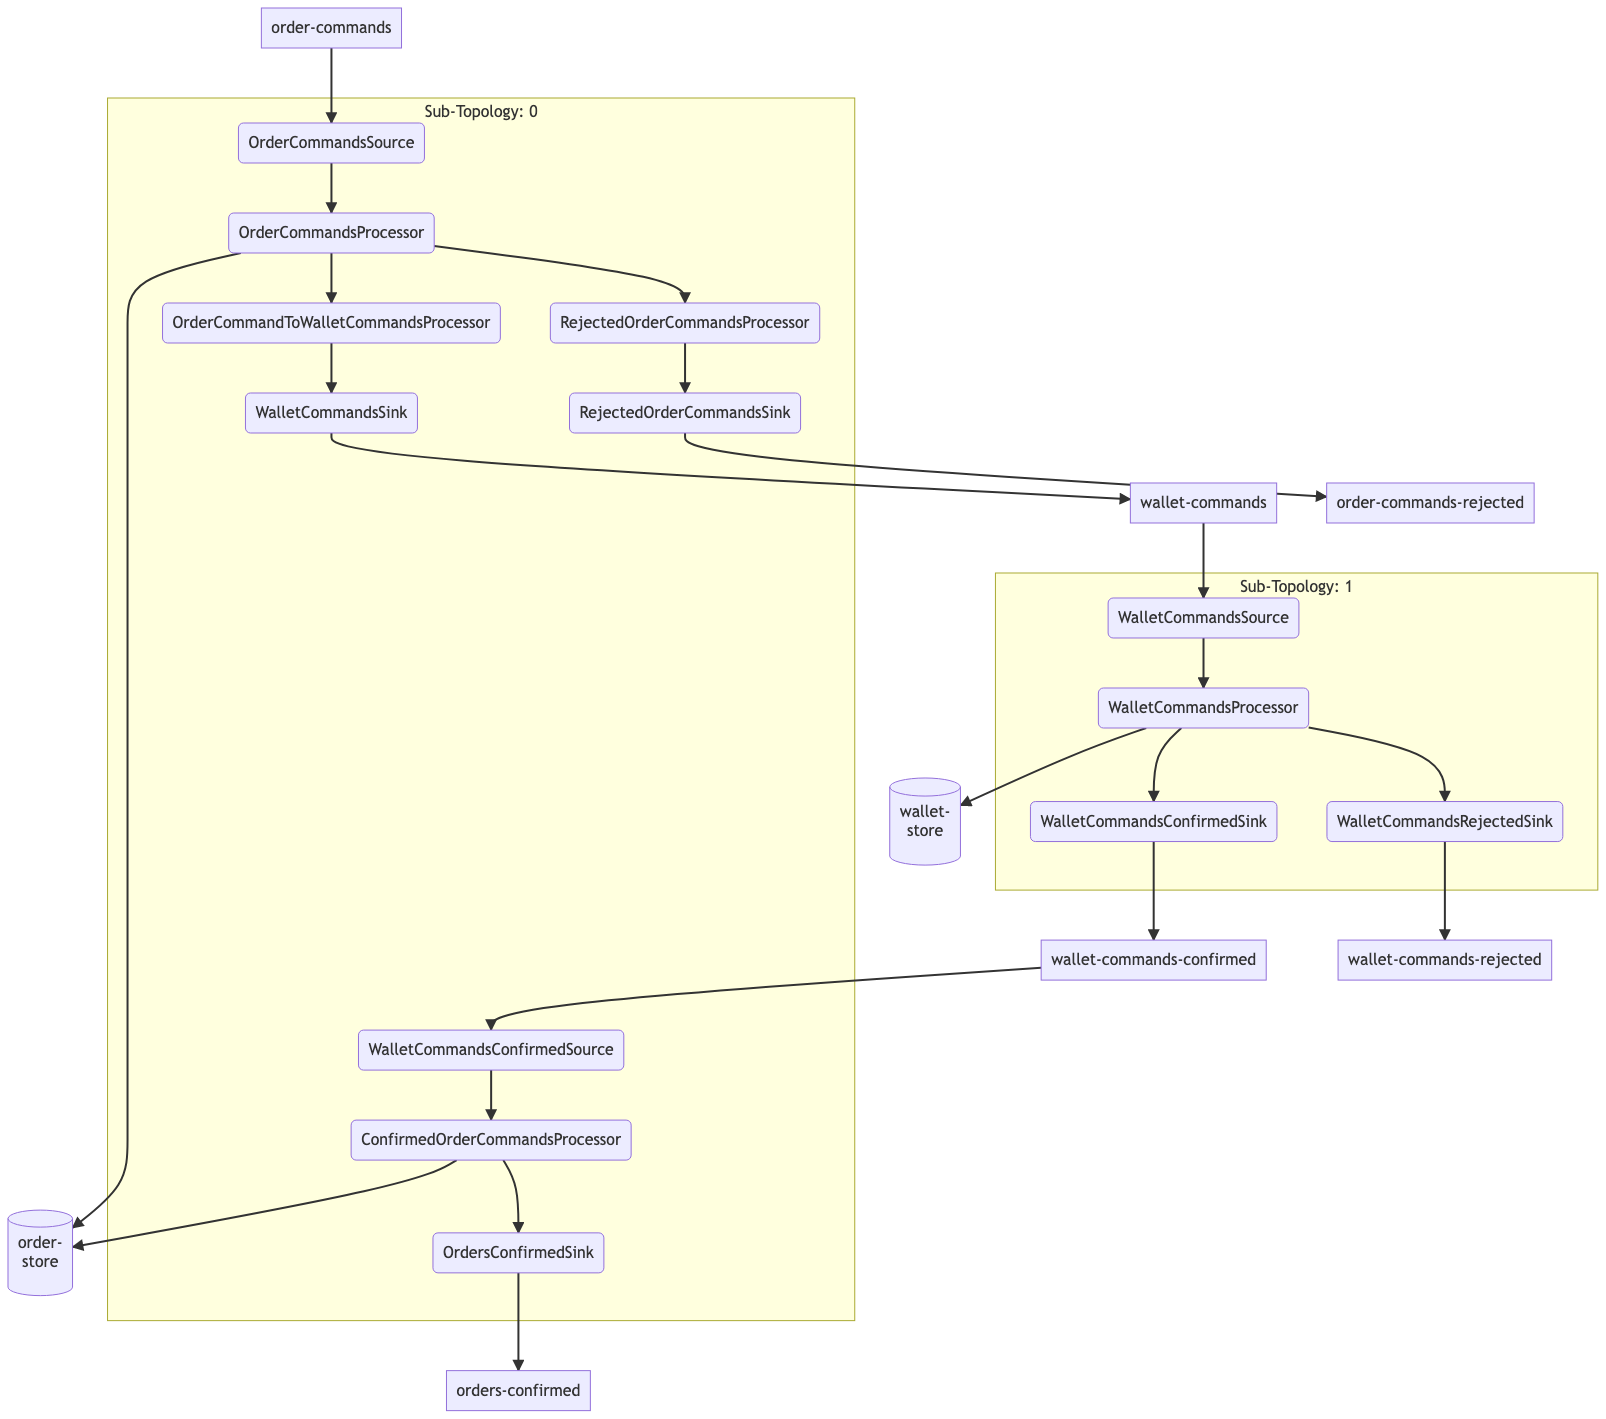
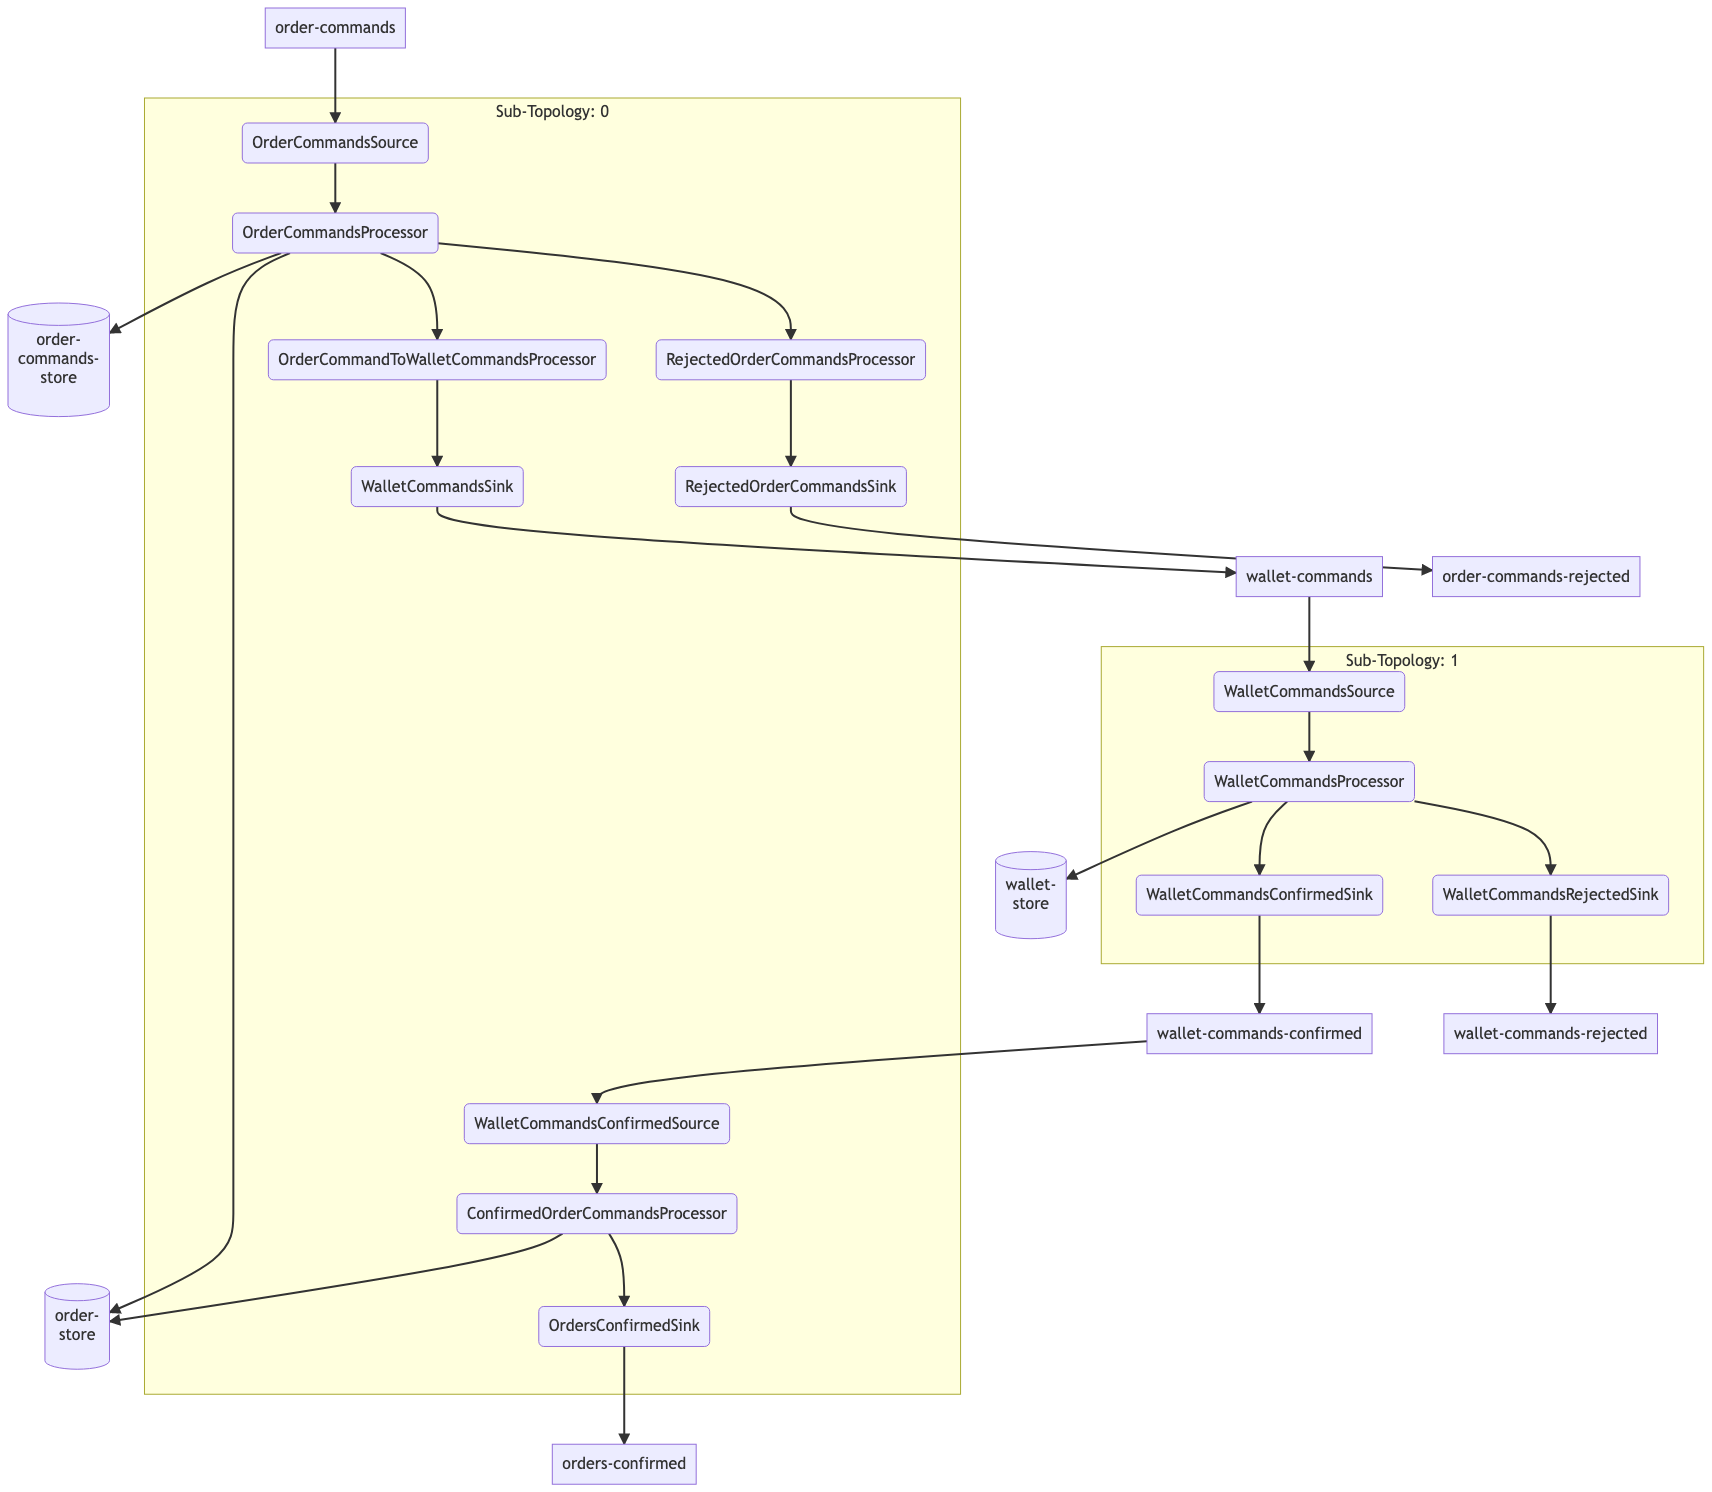
1. propagate orderCommandId in headers instead of orderId 2. fill order-commands-store in OrderCommandsProcessor
so we can modify orders after wallet commands are confirmed

Changed region(s): [[0.0, 0.0, 0.9963, 1.0], [0.1557, 0.7132, 0.4359, 0.8682]]

diff --git a/wallet-streams/src/test/java/org/example/ApplicationTests.kt b/wallet-streams/src/test/java/org/example/ApplicationTests.kt
@@ -47,7 +47,7 @@ class ApplicationTests {
     }
 
     @Test
-    fun `rejected order doesn't produce wallet command`() {
+    fun ` order doesn't produce wallet command`() {
         val input = testDriver.createInputTopic("order-commands", Serdes.String().serializer(), JsonSerde(OrderCommand::class.java).serializer())
         val inputStream = this::class.java.classLoader.getResourceAsStream("order-command-to-reject.json")?.bufferedReader()?.readText()
         val orderCommand = objectMapper.readValue(inputStream, OrderCommand::class.java)
@@ -138,7 +138,7 @@ class ApplicationTests {
     }
 
     @Test
-    fun `confirmed wallet command caused by order has orderId header`() {
+    fun `confirmed wallet command caused by order has orderCommandId header`() {
 
 
         val input = testDriver.createInputTopic("order-commands", Serdes.String().serializer(), JsonSerde(OrderCommand::class.java).serializer())
@@ -160,10 +160,39 @@ class ApplicationTests {
         val outputTopic = testDriver.createOutputTopic("wallet-commands-confirmed", Serdes.String().deserializer(), JsonSerde(WalletCommand::class.java).deserializer())
         val actualOutputRecord = outputTopic.readRecord()
 
-        val header = actualOutputRecord.headers().find { it.key() == "orderId" }
+        val header = actualOutputRecord.headers().find { it.key() == "orderCommandId" }
 
         assert(header != null)
-        assert(String(header!!.value()) == orderCommand.orderId)
+        assert(String(header!!.value()) == orderCommand.id)
 
+    }
+
+
+    @Test
+    fun `order-command-store contains orderCommand referenced by orderCommandId header delivered to wallet-commands-confirmed topic`(){
+
+        val input = testDriver.createInputTopic("order-commands", Serdes.String().serializer(), JsonSerde(OrderCommand::class.java).serializer())
+        val inputStream = this::class.java.classLoader.getResourceAsStream("order-command.json")?.bufferedReader()?.readText()
+        val orderCommand = objectMapper.readValue(inputStream, OrderCommand::class.java)
+        val record = TestRecord(orderCommand.orderId, orderCommand)
+
+        val walletStore = testDriver.getKeyValueStore<String, Wallet>("wallet-store")
+        var wallet= Wallet(orderCommand.order.walletId, emptyMap())
+        val assets : Map<String, Asset> = wallet.assets + arrayOf(
+            orderCommand.order.baseAssetId to Asset(orderCommand.order.baseAssetId, orderCommand.order.qty * orderCommand.order.price, 0.0),
+            orderCommand.order.quoteAssetId to Asset(orderCommand.order.quoteAssetId, orderCommand.order.qty * orderCommand.order.price, 0.0)
+        )
+        wallet = wallet.copy(assets = assets)
+        walletStore.put(wallet.walletId, wallet)
+
+        input.pipeInput(record)
+
+        val outputTopic = testDriver.createOutputTopic("wallet-commands-confirmed", Serdes.String().deserializer(), JsonSerde(WalletCommand::class.java).deserializer())
+        val actualOutputRecord = outputTopic.readRecord()
+
+        val header = actualOutputRecord.headers().find { it.key() == "orderCommandId" }
+        val orderCommandId = String(header!!.value())
+        val orderCommandStore = testDriver.getKeyValueStore<String, OrderCommand>("order-commands-store")
+        assert(orderCommandStore.get(orderCommandId) != null)
     }
 }

diff --git a/wallet-streams/src/main/java/org/example/order/OrderCommandsToWalletCommandsProcessor.kt b/wallet-streams/src/main/java/org/example/order/OrderCommandsToWalletCommandsProcessor.kt
@@ -2,15 +2,13 @@ package org.example.order
 
 import org.apache.kafka.common.header.internals.RecordHeader
 import org.apache.kafka.common.header.internals.RecordHeaders
-import org.apache.kafka.common.serialization.Serdes
 import org.apache.kafka.streams.processor.api.Processor
 import org.apache.kafka.streams.processor.api.ProcessorContext
 import org.apache.kafka.streams.processor.api.Record
-import org.apache.kafka.streams.state.KeyValueStore
-import org.apache.kafka.streams.state.StoreBuilder
-import org.apache.kafka.streams.state.Stores
-import org.example.*
-import org.springframework.kafka.support.serializer.JsonSerde
+import org.example.OrderCommand
+import org.example.OrderCommandType
+import org.example.WalletCommand
+import org.example.WalletOperation
 
 
 class OrderCommandsToWalletCommandsProcessor : Processor<String, OrderCommand, String, WalletCommand> {
@@ -74,7 +72,7 @@ class OrderCommandsToWalletCommandsProcessor : Processor<String, OrderCommand, S
                 } //unblock and debit one asset and credit another
             }
 
-        val header = RecordHeader("orderId", command.order.id.toByteArray())
+        val header = RecordHeader("orderCommandId", command.id.toByteArray())
 
         walletCommands.map {
             Record(

diff --git a/wallet-streams/src/main/java/org/example/order/OrderCommandsProcessor.kt b/wallet-streams/src/main/java/org/example/order/OrderCommandsProcessor.kt
@@ -22,20 +22,30 @@ val orderStoreBuilder: StoreBuilder<*> = Stores.keyValueStoreBuilder(
 )
 
 
+val orderCommandsStoreBuilder: StoreBuilder<*> = Stores.keyValueStoreBuilder(
+    Stores.persistentKeyValueStore("order-commands-store"),
+    Serdes.String(),
+    JsonSerde(OrderCommand::class.java)
+)
+
 class OrderCommandsProcessor : Processor<String, OrderCommand, String, OrderCommand> {
 
     private lateinit var orderStore: ReadOnlyKeyValueStore<String, Order>
+
+    private lateinit var orderCommandsStore: KeyValueStore<String, OrderCommand>
 
     private lateinit var context: ProcessorContext<String, OrderCommand>
 
     override fun init(context: ProcessorContext<String, OrderCommand>?) {
         super.init(context)
         orderStore = context!!.getStateStore("order-store")
+        orderCommandsStore = context.getStateStore("order-commands-store")
         this.context = context
     }
 
     override fun process(record: Record<String, OrderCommand>?) {
         val command = record!!.value()
+        orderCommandsStore.put(command.id, command)
         when (command.command) {
             OrderCommandType.SUBMIT -> {
                 if (command.order.status == OrderStatus.NEW) {

diff --git a/wallet-streams/src/main/java/org/example/wallet/WalletCommandProcessor.kt b/wallet-streams/src/main/java/org/example/wallet/WalletCommandProcessor.kt
@@ -32,7 +32,7 @@ class WalletCommandProcessor : Processor<String, WalletCommand, String, WalletCo
     override fun process(record: Record<String, WalletCommand>?) {
 
         val command = record!!.value()
-        val headers = RecordHeaders(record.headers().filter { it.key() == "orderId" })
+        val headers = RecordHeaders(record.headers().filter { it.key() == "orderCommandId" })
 
         walletStore.putIfAbsent(
             command.walletId,

diff --git a/wallet-streams/src/main/java/org/example/match/Application.kt b/wallet-streams/src/main/java/org/example/match/Application.kt
@@ -78,6 +78,8 @@ fun topology(): Topology {
 
     topology.addProcessor("OrderCommandsProcessor", ProcessorSupplier { OrderCommandsProcessor() }, "OrderCommandsSource" )
 
+    topology.addStateStore(orderCommandsStoreBuilder, "OrderCommandsProcessor")
+
     topology.addProcessor("RejectedOrderCommandsProcessor", ProcessorSupplier { RejectedOrderCommandsProcessor() }, "OrderCommandsProcessor" )
 
     topology.addSink("RejectedOrderCommandsSink",
